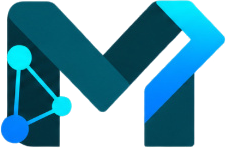
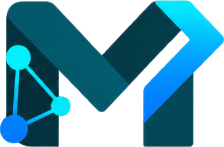
fix: 미래에이아이랩 로고를 새 원본(투명 배경)으로 교체
- 전달받은 원본을 public/brand/mirae-logo-original.png 에 그대로 보관
- 표시용 로고와 심볼 마크를 새 원본에서 재생성 (아트워크 픽셀 동일)
- 원본 캔버스의 투명 여백이 위 28% / 아래 13%로 비대칭이라, 아트워크는
  손대지 않고 빈 여백만 제거해 모든 배치에서 로고가 중앙에 오도록 함
- 누락돼 있던 푸터 Built by 로고 블록 추가
- 상단 제작사 바의 심볼 마크 크기 조정

Claude-Session: https://claude.ai/code/session_01JgZojFh7419HpQCjsfSAct

diff --git a/src/components/layout/Footer.tsx b/src/components/layout/Footer.tsx
@@ -46,6 +46,18 @@ export function Footer() {
             <p className="mt-5 inline-flex rounded-lg bg-navy-50 px-2.5 py-1.5 text-[19px] font-medium text-navy-500">
               포트폴리오 데모 · 실제 결제와 상담은 진행되지 않습니다
             </p>
+
+            <div className="mt-7 rounded-2xl border border-navy-100 bg-canvas p-5">
+              <p className="text-[17px] font-bold uppercase tracking-[0.14em] text-navy-400">
+                Built by
+              </p>
+              <Link href="/about" className="mt-3.5 block">
+                <MiraeLogo className="h-[54px]" />
+              </Link>
+              <p className="mt-3.5 text-[19px] leading-relaxed text-navy-500">
+                기획·디자인·개발 전 과정을 미래에이아이랩이 직접 진행했습니다.
+              </p>
+            </div>
           </div>
 
           {COLUMNS.map((col) => (

diff --git a/src/components/brand/MiraeTopBar.tsx b/src/components/brand/MiraeTopBar.tsx
@@ -11,7 +11,7 @@ export function MiraeTopBar() {
     <div className="relative z-[60] bg-[#071a22] text-white">
       <div className="shell flex min-h-[46px] flex-wrap items-center justify-between gap-x-4 gap-y-1 py-2">
         <p className="flex min-w-0 items-center gap-2.5 text-[16.5px] font-medium text-[#c9d6dc]">
-          <MiraeSymbol className="h-6 shrink-0" />
+          <MiraeSymbol className="h-7 shrink-0" />
           <span>
             <span className="font-bold text-white">미래에이아이랩</span>
             <span className="hidden sm:inline">이 제작한 서비스 레퍼런스 데모입니다</span>

diff --git a/src/components/brand/MiraeLogo.tsx b/src/components/brand/MiraeLogo.tsx
@@ -21,8 +21,8 @@ export function MiraeLogo({
     <Image
       src="/brand/mirae-logo.png"
       alt="미래에이아이랩"
-      width={756}
-      height={148}
+      width={755}
+      height={147}
       priority={priority}
       className={cx("w-auto object-contain", className)}
     />
@@ -43,8 +43,8 @@ export function MiraeSymbol({ className }: { className?: string }) {
     <Image
       src="/brand/mirae-mark.png"
       alt="미래에이아이랩 심볼"
-      width={222}
-      height={148}
+      width={224}
+      height={147}
       className={cx("w-auto object-contain", className)}
     />
   );

diff --git a/README.md b/README.md
@@ -179,8 +179,17 @@ placeholder 로 자동 대체됩니다.
 - 데모 계정 = **미래에이아이랩 김팀장** (헤더 · 마이페이지)
 - 메타데이터 `author` / `creator` / `publisher` / OpenGraph
 
-로고 원본은 `public/brand/mirae-logo.png` 에 배경을 투명 처리해 보관하며,
-글자색이 짙어 어두운 배경에서는 밝은 플레이트 위에 올려 사용합니다
+로고 에셋은 다음과 같이 관리합니다.
+
+| 파일 | 용도 |
+| --- | --- |
+| `public/brand/mirae-logo-original.png` | 전달받은 원본 (투명 배경, 828×250) |
+| `public/brand/mirae-logo.png` | 표시용 — 원본에서 투명 여백만 잘라낸 것 (755×147) |
+| `public/brand/mirae-mark.png` | 심볼 마크 — 원본에서 마크 부분만 잘라낸 것 (224×147) |
+
+원본 캔버스의 투명 여백이 위 28% / 아래 13%로 비대칭이라 그대로 쓰면 로고가
+아래로 치우쳐 보여, 아트워크 픽셀은 그대로 두고 빈 여백만 제거해 사용합니다.
+글자색이 짙어 어두운 배경에서는 밝은 플레이트 위에 올립니다
 (`src/components/brand/MiraeLogo.tsx` 의 `plate` 옵션).
 
 ## 구현 범위 밖 (의도적으로 제외)
